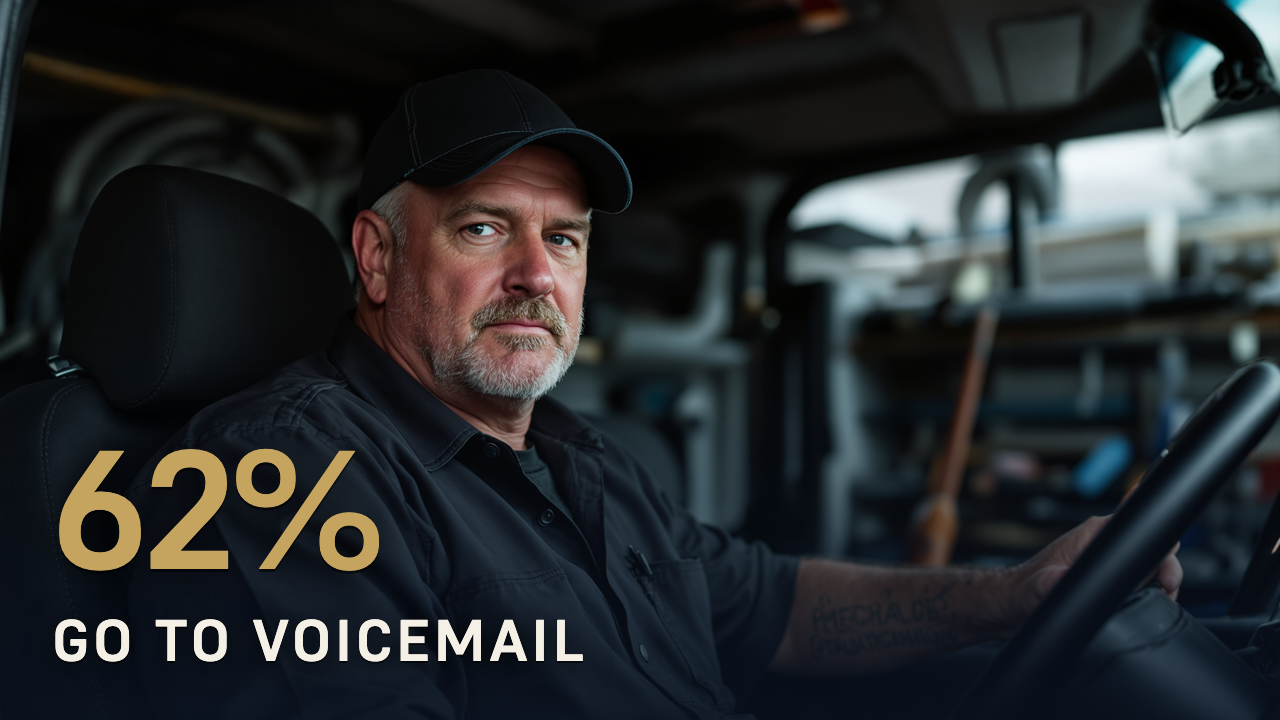
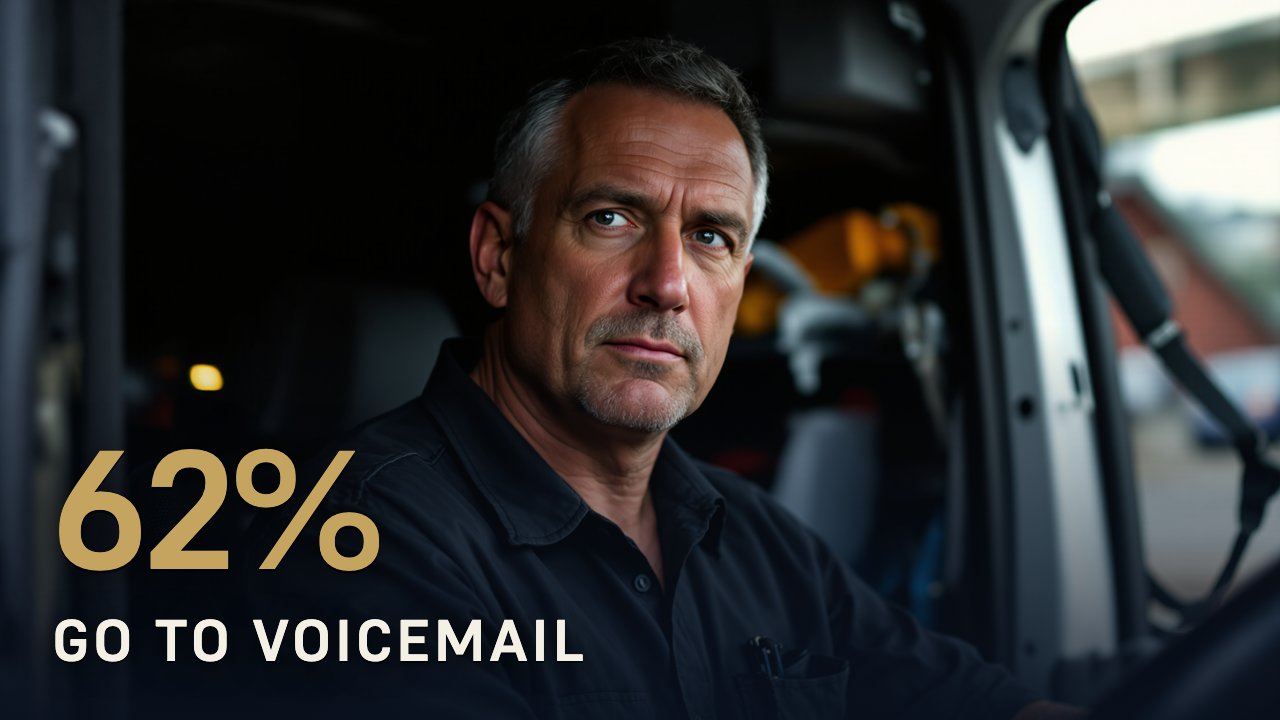
thumbnails: close portraits — framing is what assigns power, not expression
The first photographic batch came back depressing on episodes that are about
opportunity. The cause was framing, not tone.

A wide environmental shot makes the room larger than the person, so the subject
reads as someone the situation happened to. A tight head-and-shoulders portrait
makes the person larger than the room, and the identical serious expression
then reads as someone who knows something. Same seriousness, opposite power
position.

Checked against Wealth and Thoughts on a logged-out feed: the stern tiles do
well -- Musk in "BIGGER THAN TSMC", TLDR on Myanmar, ABC News -- and every one
of them is a close portrait with the head filling roughly a third of the frame.
Seriousness was never the problem. Smallness was.

generate_scene.py's constraint block now specifies head-and-shoulders cropped at
the chest, subject right of frame, direct eye contact, composed and knowing
rather than defeated, rim light separating head from a heavily defocused
background, left third dark for the text. 85mm at f/2 rather than a 35mm
environmental frame.

All four back-catalogue grounds regenerated and re-composited. Mockup rebuilt.

Tradeoff worth knowing: defocusing the background buys authority and costs
narrative. EP004's empty office was the visual argument for NO EMPLOYEES and it
is now soft enough to read as any office.

diff --git a/studio/scripts/originate/generate_scene.py b/studio/scripts/originate/generate_scene.py
@@ -49,16 +49,32 @@ THUMBS = ROOT / "remotion" / "public" / "thumbs"
 DEFAULT_MODEL = "fal-ai/flux-pro/v1.1-ultra"
 
 PREAMBLE = (
-    "Documentary editorial photograph, photojournalism, shot on a 35mm lens. "
+    "Editorial portrait photograph, shot on an 85mm lens at f/2. "
 )
+# Framing is the whole game, and it is what the first pass got wrong.
+#
+# A wide environmental shot makes the room larger than the person, so the
+# subject reads as someone the situation happened to. That is why the first
+# batch came back depressing on episodes that are about opportunity. A tight
+# head-and-shoulders portrait makes the person larger than the room, and the
+# identical serious expression then reads as someone who knows something.
+#
+# Checked against what YouTube actually surfaces in Wealth and Thoughts on a
+# logged-out feed: the stern tiles outperform, but every one of them is a close
+# portrait with the head filling roughly a third of the frame. Seriousness is
+# fine. Smallness is not.
 CONSTRAINTS = (
-    " The subject's face is in the upper third of the frame with a flat, candid, "
-    "unperformed expression, not smiling, not exaggerated. Natural directional "
-    "light separating the subject from the background, shallow depth of field, "
-    "muted desaturated colour, subtle film grain. The lower-left quadrant is in "
-    "shadow, dark and free of detail. Absolutely no text, no lettering, no "
-    "numbers, no logos, no watermarks, no signage. Not stock photography, not "
-    "advertising, no studio lighting, no glossy retouching."
+    " Tight head-and-shoulders portrait, cropped at the chest, the head filling "
+    "about a third of the frame. The subject is placed toward the right of the "
+    "frame, looking directly into the lens with a composed, self-possessed, "
+    "knowing expression: serious and unsmiling, but confident rather than sad, "
+    "defeated or pitiable. Directional key light with a subtle rim separating "
+    "the head and shoulders from a much darker, heavily out-of-focus background. "
+    "Muted colour, fine film grain. The left third of the frame is dark and free "
+    "of detail, reserved for overlaid text. Absolutely no text, no lettering, no "
+    "numbers, no logos, no watermarks, no signage, no branded clothing. Not stock "
+    "photography, not advertising, no glossy retouching, no exaggerated "
+    "expression."
 )
 
 
